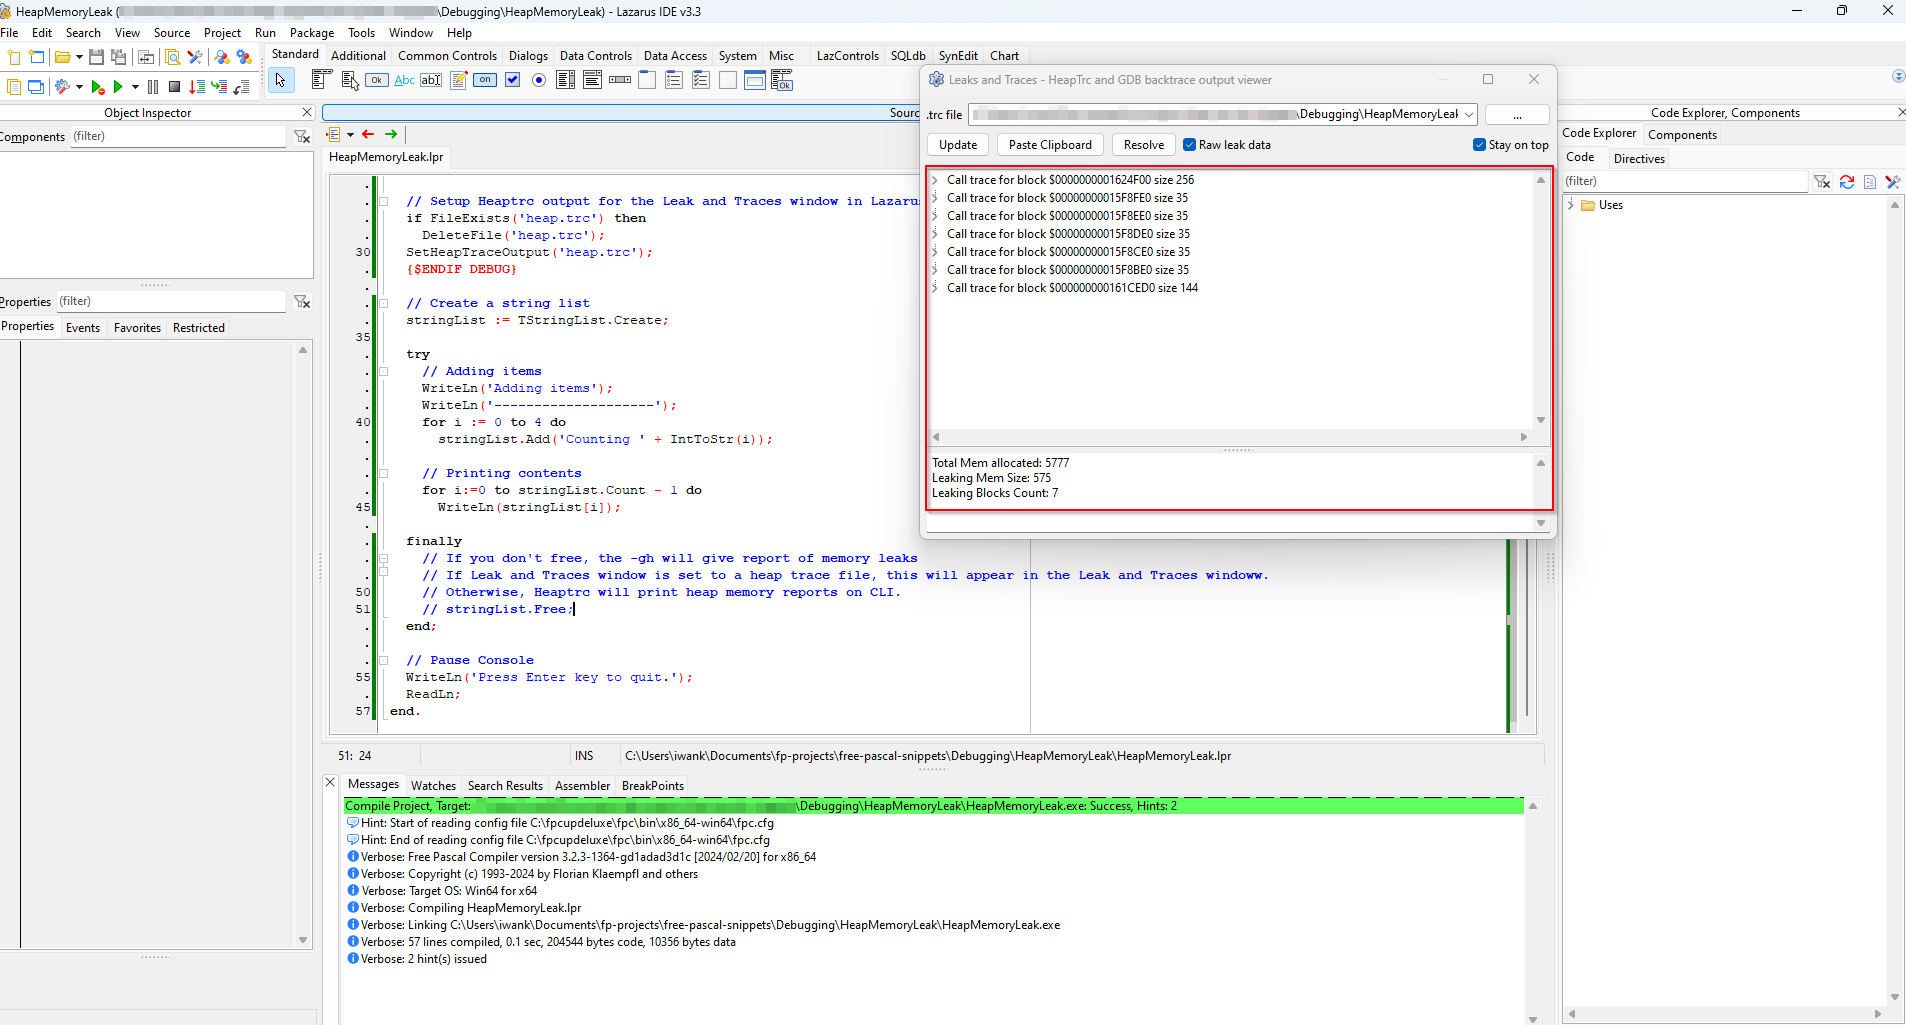
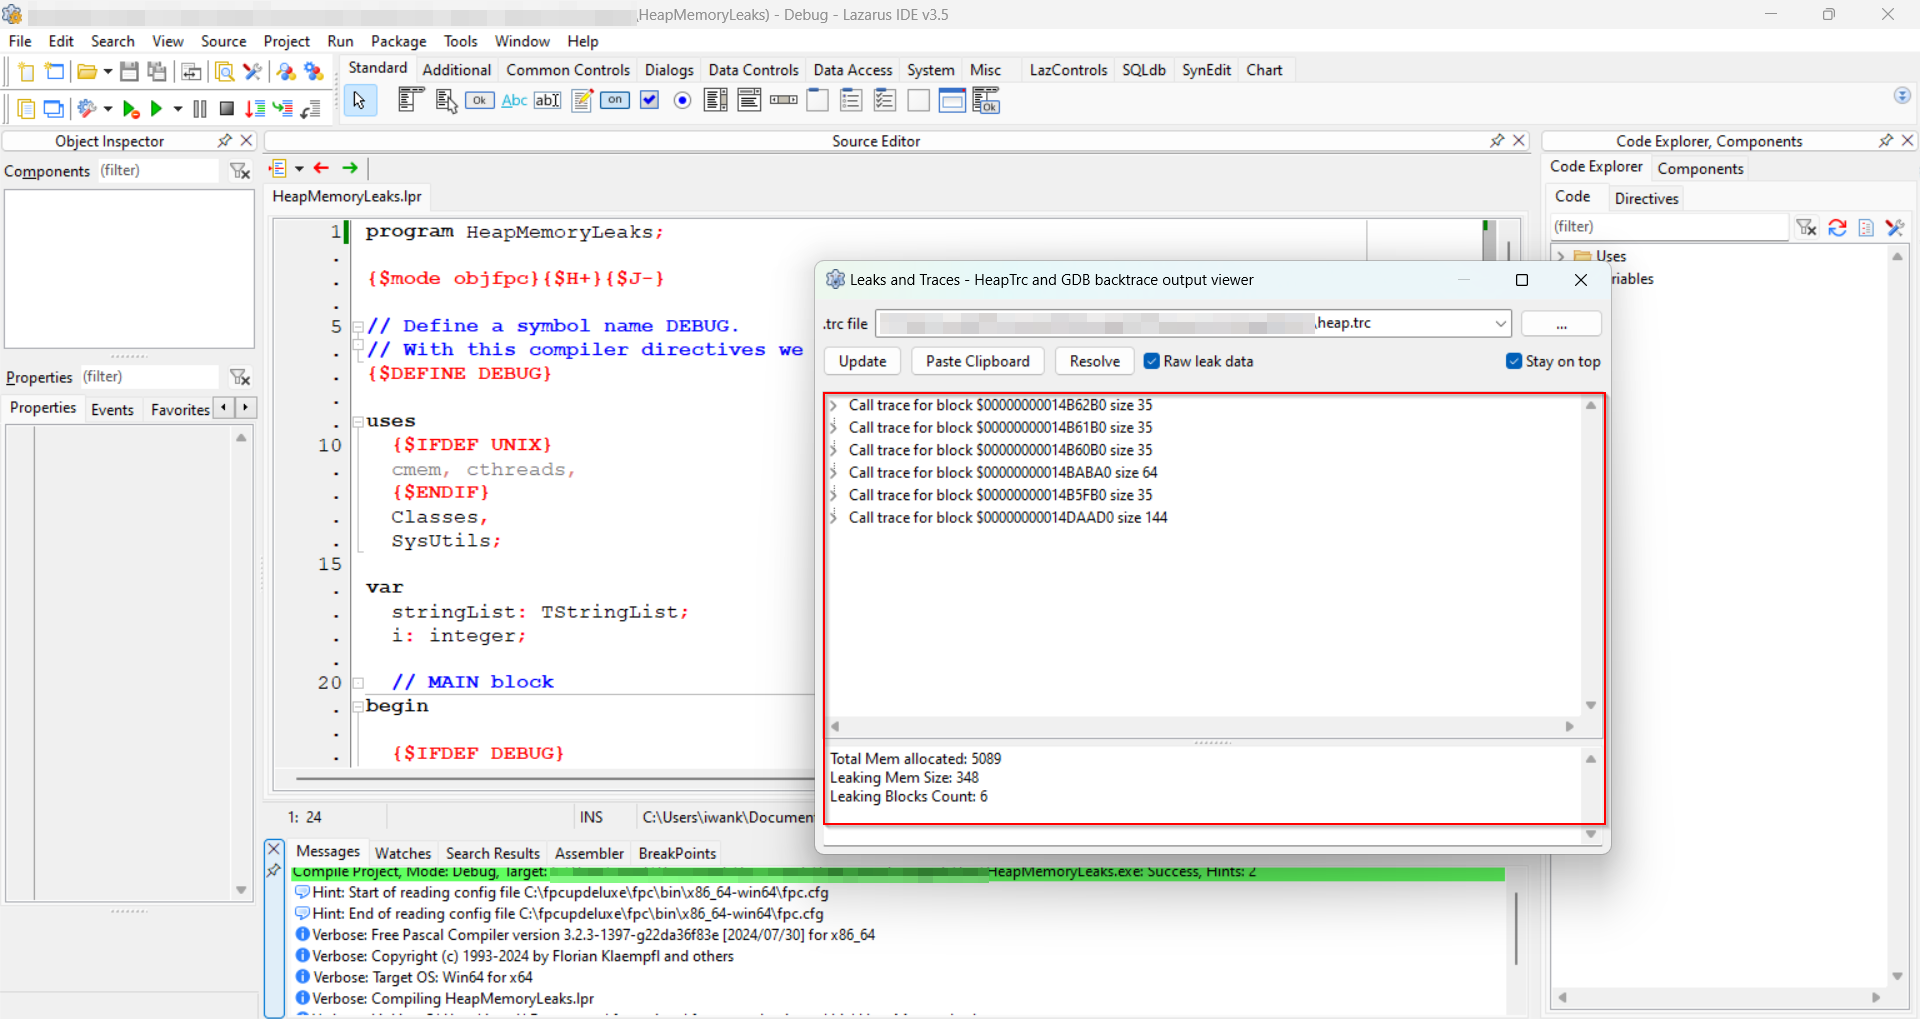
Update - Updated and reorganised Debugging.

diff --git a/docs/docs/advanced/debugging.md b/docs/docs/advanced/debugging.md
@@ -1,10 +1,12 @@
 # Debugging
 
-## Official docs on debugging Free Pascal programs
+!!! Note 
 
-Here is the official docs by Michaël Van Canneyt and Florian Klämpfl; [Debugging your Program](https://www.freepascal.org/docs-html/user/userch10.html).
+    The official docs by Michaël Van Canneyt and Florian Klämpfl on debugging; [Debugging your Program](https://www.freepascal.org/docs-html/user/userch10.html).
 
-## Create Debug and Release profiles in Lazarus
+## 1. Create Debug and Release profiles in Lazarus
+
+### 1.1 Using the default configuration
 
 1. Open a new project in Lazarus IDE
 2. Go to **Project | Options | Compiler Options**
@@ -13,11 +15,13 @@ Here is the official docs by Michaël Van Canneyt and Florian Klämpfl; [Debuggi
 
 Once you've done that, you will see two new profiles; `Debug` and `Release`.
 
-Use the `Debug` profile if you need to detect heap memory leaks.
+!!! Important
 
-Use `Release` for production.
+    Use the `Debug` profile for debugging and detecting heap memory leaks.
 
-## Debugger to use in Lazarus IDE
+    Use `Release` for production.
+
+### 1.2. Manual config
 
 ![Run-with-debugger](../../assets/run-app-with-debugger.png)
 
@@ -31,27 +35,20 @@ Citing from [https://wiki.lazarus.freepascal.org/DWARF](https://wiki.lazarus.fre
 > 
 > DWARF 2 (the one **without** "with sets") does not display sets "type TMySet = set of (v1,v2,v3)" correctly.
 
-## Detecting heap memory leaks
+## 2. Detecting heap memory leaks
 
 Consider using the pre-defined Debug mode from [Create Debug and Release profiles in Lazarus](#create-debug-and-release-profiles-in-lazarus) before customising your own debugging environment.
 
-### Official docs on using Heaptrc
+!!! Note "Official docs on Heaptrc"
 
-- [HeapTrc Usage](https://www.freepascal.org/docs-html/rtl/heaptrc/usage.html)
-- [RTL - `heaptrc`](https://www.freepascal.org/docs-html/rtl/heaptrc/index.html)
-- [RTL - `SetHeapTraceOutput`](https://www.freepascal.org/docs-html/rtl/heaptrc/setheaptraceoutput.html)
-- [Controlling HeapTrc with environment variables](https://www.freepascal.org/docs-html/rtl/heaptrc/environment.html)
-- [Wiki - Using Heaptrc in FPC](https://wiki.freepascal.org/heaptrc)
-- [Wiki - Using LeakView in Lazarus](https://wiki.freepascal.org/leakview)
+    - [HeapTrc Usage](https://www.freepascal.org/docs-html/rtl/heaptrc/usage.html)
+    - [RTL - `heaptrc`](https://www.freepascal.org/docs-html/rtl/heaptrc/index.html)
+    - [RTL - `SetHeapTraceOutput`](https://www.freepascal.org/docs-html/rtl/heaptrc/setheaptraceoutput.html)
+    - [Controlling HeapTrc with environment variables](https://www.freepascal.org/docs-html/rtl/heaptrc/environment.html)
+    - [Wiki - Using Heaptrc in FPC](https://wiki.freepascal.org/heaptrc)
+    - [Wiki - Using LeakView in Lazarus](https://wiki.freepascal.org/leakview)
 
-### Detecting heap memory leaks in Lazarus
-
-There two ways of accomplishing this;
-
-- use the default Debug mode or
-- enable the HeapTrc manually.
-
-#### Enable the default Debug mode
+### 2.1. Enable the default Debug mode
 
 Once you've created the default Debug and Release profiles in Lazarus, switch to Debug Mode to see heap memopry leaks.
 
@@ -59,10 +56,10 @@ Steps:
 
 - Press ++ctrl+shift+f11++ to open the **Project Options** window.
 - Go to **Compilation and Linking**.
-- Set **Build modes** to **Release**.
+- Set **Build modes** to **Debug**.
 - Re-compile your program.
 
-#### Manually enable HeapTrc
+### 2.2 Or manually enable `HeapTrc`.
 
 First, go to `Project | Project Options ...` 
 
@@ -75,15 +72,19 @@ Click the image below to expand the view.
 
 ![Project options window](../../assets/use-heaptrc-unit-check-mem-leaks.png)
 
-Now, save leaks report to a file use [`SetHeapTraceOutput`](https://www.freepascal.org/docs-html/rtl/heaptrc/setheaptraceoutput.html) to redirect heap trace report to a file.
+## 3. (Optional) Save leaks report to a file
 
-Here is an example.
+Use [`SetHeapTraceOutput`](https://www.freepascal.org/docs-html/rtl/heaptrc/setheaptraceoutput.html) to redirect heap trace report to a file.
 
-1. Define a `DEBUG` symbol. We contain the heap trace report only for debug builds. Line 7.
+
+## 4. Example - Redirect leaks report to a file
+
+1. Enable Debug mode for compilation.
+2. Define a `DEBUG` symbol. We contain the heap trace report only for debug builds. Line 7.
 
       - FYI, the `{$DEFINE}` directive has a command-line equivalent, `-d`.  For example, `-dNAME`
 
-2. Create a conditional compilation block for `DEBUG` builds, `{$IFDEF DEBUG}...{$ENDIF DEBUG}`, for redirecting heap trace to a file. Line 23-31.
+3. Create a conditional compilation block for `DEBUG` builds, `{$IFDEF DEBUG}...{$ENDIF DEBUG}`, for redirecting heap trace to a file. Line 23-31.
 
       - Remove existing heap trace file. Line 28, 29.
       - Set a file for reporting heap memory leaks. Line 30.
@@ -139,7 +140,7 @@ begin
     // If you don't free, the -gh will give report of memory leaks
     // If Leak and Traces window is set to a heap trace file, this will appear in the Leak and Traces windoww.
     // Otherwise, Heaptrc will print heap memory reports on CLI.
-    stringList.Free;
+    // stringList.Free;
   end;
 
   // Pause Console
@@ -148,9 +149,136 @@ begin
 end.
 ```
 
-After you run the program, you will get a heap trace report file.
+The program prints the following on the screen.
 
-**3. View Leaks & Traces**
+```bash
+$ ./HeapMemoryLeak.exe
+Adding items
+--------------------
+Counting 0
+Counting 1
+Counting 2
+Counting 3
+$
+```
+
+You will get a heap trace report file containing a report similar to the one below; showing 6 unfreed memory blocks - 348 bytes. 
+
+```bash
+$ cat heap.trc
+/a-long-path/HeapMemoryLeak.exe
+Heap dump by heaptrc unit of /a-long-path/HeapMemoryLeak.exe
+134 memory blocks allocated : 5089/5480
+128 memory blocks freed     : 4741/5112
+6 unfreed memory blocks : 348
+True heap size : 229376 (192 used in System startup)
+True free heap : 227520
+Should be : 227664
+Call trace for block $00000000000B12C0 size 35
+  $000000010000BA32
+  $00000001000051C3
+  $00000001000060AB
+  $00000001000055ED
+  $000000010000197F  $main,  line 41 of HeapMemoryLeak.lpr
+  $0000000100001B16  $main,  line 53 of HeapMemoryLeak.lpr
+  $00000001000111C0
+  $00000001000017A0
+  $00007FFA4CC0257D
+  $00007FFA4DF6AF28
+  $BAADF00DBAADF00D
+  $BAADF00DBAADF00D
+  $BAADF00DBAADF00D
+  $BAADF00DBAADF00D
+  $BAADF00DBAADF00D
+  $BAADF00DBAADF00D
+Call trace for block $00000000000B11C0 size 35
+  $000000010000BA32
+  $00000001000051C3
+  $00000001000060AB
+  $00000001000055ED
+  $000000010000197F  $main,  line 41 of HeapMemoryLeak.lpr
+  $0000000100001B16  $main,  line 53 of HeapMemoryLeak.lpr
+  $00000001000111C0
+  $00000001000017A0
+  $00007FFA4CC0257D
+  $00007FFA4DF6AF28
+  $BAADF00DBAADF00D
+  $BAADF00DBAADF00D
+  $BAADF00DBAADF00D
+  $BAADF00DBAADF00D
+  $BAADF00DBAADF00D
+  $BAADF00DBAADF00D
+Call trace for block $00000000000B10C0 size 35
+  $000000010000BA32
+  $00000001000051C3
+  $00000001000060AB
+  $00000001000055ED
+  $000000010000197F  $main,  line 41 of HeapMemoryLeak.lpr
+  $0000000100001B16  $main,  line 53 of HeapMemoryLeak.lpr
+  $00000001000111C0
+  $00000001000017A0
+  $00007FFA4CC0257D
+  $00007FFA4DF6AF28
+  $BAADF00DBAADF00D
+  $BAADF00DBAADF00D
+  $BAADF00DBAADF00D
+  $BAADF00DBAADF00D
+  $BAADF00DBAADF00D
+  $BAADF00DBAADF00D
+Call trace for block $00000000000B5BB0 size 64
+  $000000010000BA32
+  $000000010001C18E
+  $000000010001BBEC
+  $000000010001BEC4
+  $000000010001BE84
+  $000000010001C456
+  $00000001000019BA
+  $0000000100001B16  $main,  line 53 of HeapMemoryLeak.lpr
+  $00000001000111C0
+  $00000001000017A0
+  $00007FFA4CC0257D
+  $00007FFA4DF6AF28
+  $BAADF00DBAADF00D
+  $BAADF00DBAADF00D
+  $BAADF00DBAADF00D
+  $BAADF00DBAADF00D
+Call trace for block $00000000000B0FC0 size 35
+  $000000010000BA32
+  $00000001000051C3
+  $00000001000060AB
+  $00000001000055ED
+  $000000010000197F  $main,  line 41 of HeapMemoryLeak.lpr
+  $0000000100001B16  $main,  line 53 of HeapMemoryLeak.lpr
+  $00000001000111C0
+  $00000001000017A0
+  $00007FFA4CC0257D
+  $00007FFA4DF6AF28
+  $BAADF00DBAADF00D
+  $BAADF00DBAADF00D
+  $BAADF00DBAADF00D
+  $BAADF00DBAADF00D
+  $BAADF00DBAADF00D
+  $BAADF00DBAADF00D
+Call trace for block $00000000000D5910 size 144
+  $000000010000BA32
+  $00000001000090BA
+  $000000010001C2F5
+  $000000010000188D
+  $0000000100001B16  $main,  line 53 of HeapMemoryLeak.lpr
+  $00000001000111C0
+  $00000001000017A0
+  $00007FFA4CC0257D
+  $00007FFA4DF6AF28
+  $BAADF00DBAADF00D
+  $BAADF00DBAADF00D
+  $BAADF00DBAADF00D
+  $BAADF00DBAADF00D
+  $BAADF00DBAADF00D
+  $BAADF00DBAADF00D
+  $BAADF00DBAADF00D
+```
+
+## 5. (Optional) View Leaks & Traces in Lazarus IDE
 
 1. Click `View` form the top menu bar of Lazarus IDE.
 2. Select `Leaks and Traces`
